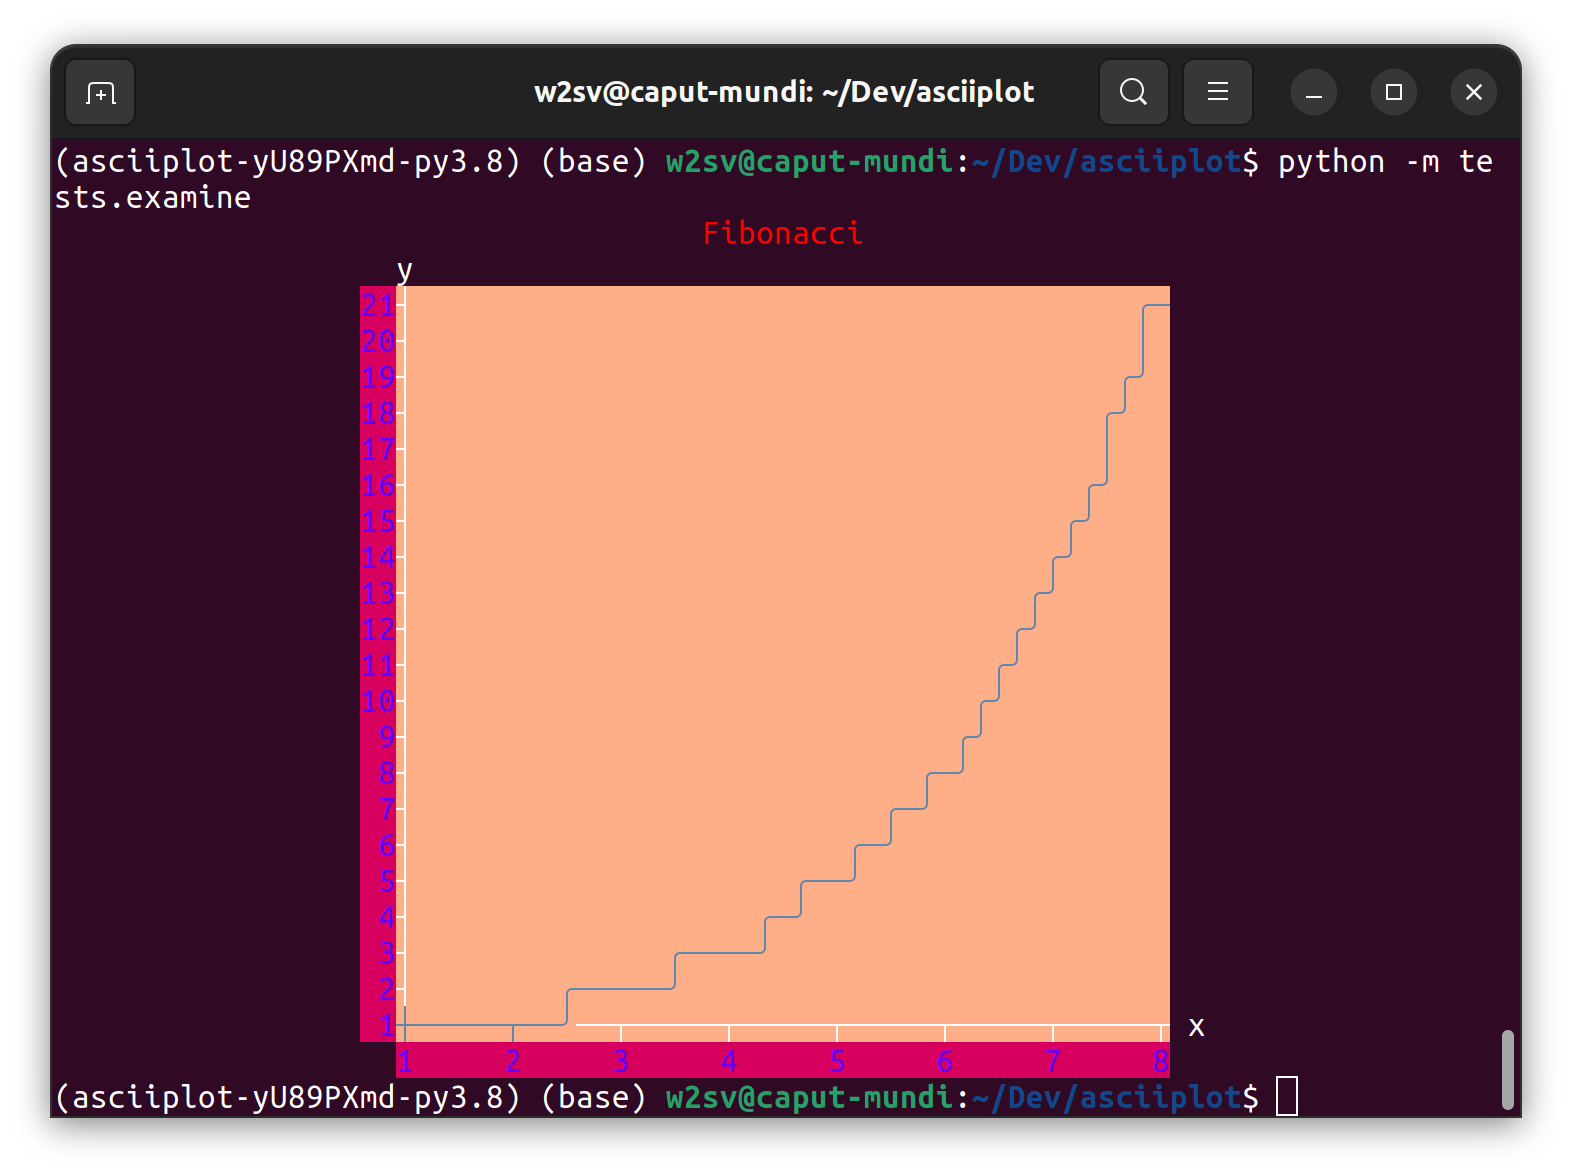
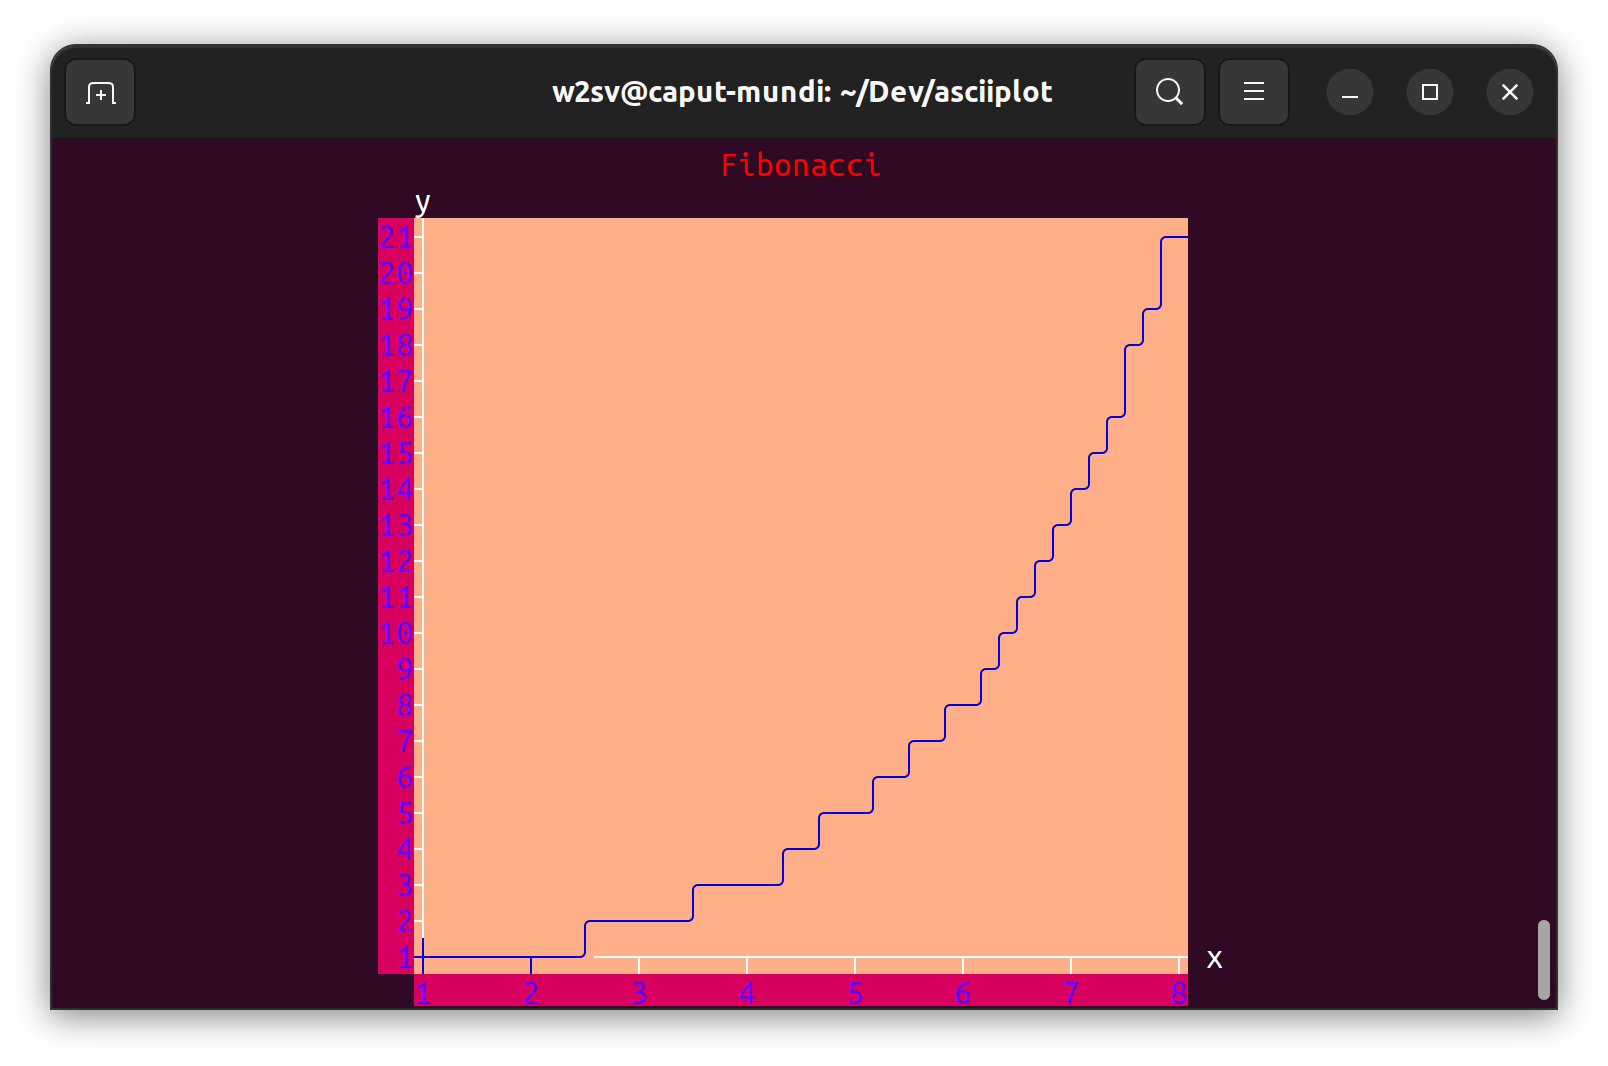
Update README.md

diff --git a/tests/examine.py b/tests/examine.py
@@ -2,34 +2,32 @@ from asciiplot import Color, asciiize
 
 
 if __name__ == '__main__':
-    # chart = asciiize(
-    #     [1, 1, 2, 3, 5, 8, 13, 21],
-    #     y_axis_tick_label_decimal_places=0,
-    #     height=21,
-    #     inter_points_margin=5,
-    #     x_axis_tick_labels='auto',
-    #     sequence_colors=[Color.STEEL_BLUE],
-    #     label_color=Color.BLUE_VIOLET,
-    #     title='Fibonacci',
-    #     title_color=Color.RED_1,
-    #     center_horizontally=True,
-    #     background_color=Color.LIGHT_SALMON_1,
-    #     axes_background_color=Color.DEEP_PINK_3A,
-    #     x_axis_description='x',
-    #     y_axis_description='y'
-    # )
     chart = asciiize(
-        [17, 21, 19, 19, 5, 7, 12, 4],
-        [7, 8, 3, 17, 19, 18, 5, 2, 20],
-        sequence_colors=[Color.RED, Color.BLUE_VIOLET],
+        [1, 1, 2, 3, 5, 8, 13, 21],
+        height=21,
         inter_points_margin=5,
-        height=20,
-        background_color=Color.GREY_7,
-        title='Random Sequences',
-        title_color=Color.MEDIUM_PURPLE,
-        label_color=Color.MEDIUM_PURPLE,
+        sequence_colors=[Color.BLUE_3B],
+        label_color=Color.BLUE_VIOLET,
+        title='Fibonacci',
+        title_color=Color.RED_1,
+        center_horizontally=True,
+        background_color=Color.LIGHT_SALMON_1,
+        axes_background_color=Color.DEEP_PINK_3A,
         x_axis_description='x',
-        y_axis_description='y',
-        center_horizontally=True
+        y_axis_description='y'
     )
+    # chart = asciiize(
+    #     [17, 21, 19, 19, 5, 7, 12, 4],
+    #     [7, 8, 3, 17, 19, 18, 5, 2, 20],
+    #     sequence_colors=[Color.RED, Color.BLUE_VIOLET],
+    #     inter_points_margin=5,
+    #     height=20,
+    #     background_color=Color.GREY_7,
+    #     title='Random Sequences',
+    #     title_color=Color.MEDIUM_PURPLE,
+    #     label_color=Color.MEDIUM_PURPLE,
+    #     x_axis_description='x',
+    #     y_axis_description='y',
+    #     center_horizontally=True
+    # )
     print(chart)

diff --git a/README.md b/README.md
@@ -19,10 +19,12 @@ $pip install asciiplot
 
 Set:
 - chart height & title
-- axes descriptions & tick labels, including the possibility to determine the number of decimal points for float labels
-- the color of virtually all chart components, picked from a wide array of shades due to the integration of [colored](https://pypi.org/project/colored/)
+- the color of virtually all chart components and areas, picked from a wide array of shades due to the integration of [colored](https://pypi.org/project/colored/)
 - consistent margin between consecutive data points to widen your charts
 - the chart indentation within its hosting terminal, or whether it ought to be centered in it, respectively
+- axes descriptions
+- x-axis tick labels, which may be set to contain strings instead of just numeric values
+- y-axis tick label decimal places
 
 ## Usage Examples
 
@@ -33,7 +35,7 @@ from asciiplot import asciiize, Color
 print(
     asciiize(
         [1, 1, 2, 3, 5, 8, 13, 21],
-        sequence_colors=[Color.STEEL_BLUE],
+        sequence_colors=[Color.BLUE_3B],
         height=21,
         inter_points_margin=5,
         background_color=Color.LIGHT_SALMON_1,
@@ -75,6 +77,14 @@ print(
 ## Acknowledgements
 Core sequence asciiization algorithm adopted from https://github.com/kroitor/asciichart/blob/master/asciichartpy/
 
+## Testing
+
+```shell
+git clone https://github.com/w2sv/asciiplot.git
+cd asciiplot
+poetry install
+make test  # runs mypy, pytest doctest and outputs test coverage
+```
 
 ## License
 [MIT License](https://github.com/w2sv/asciiplot/blob/master/LICENSE)
